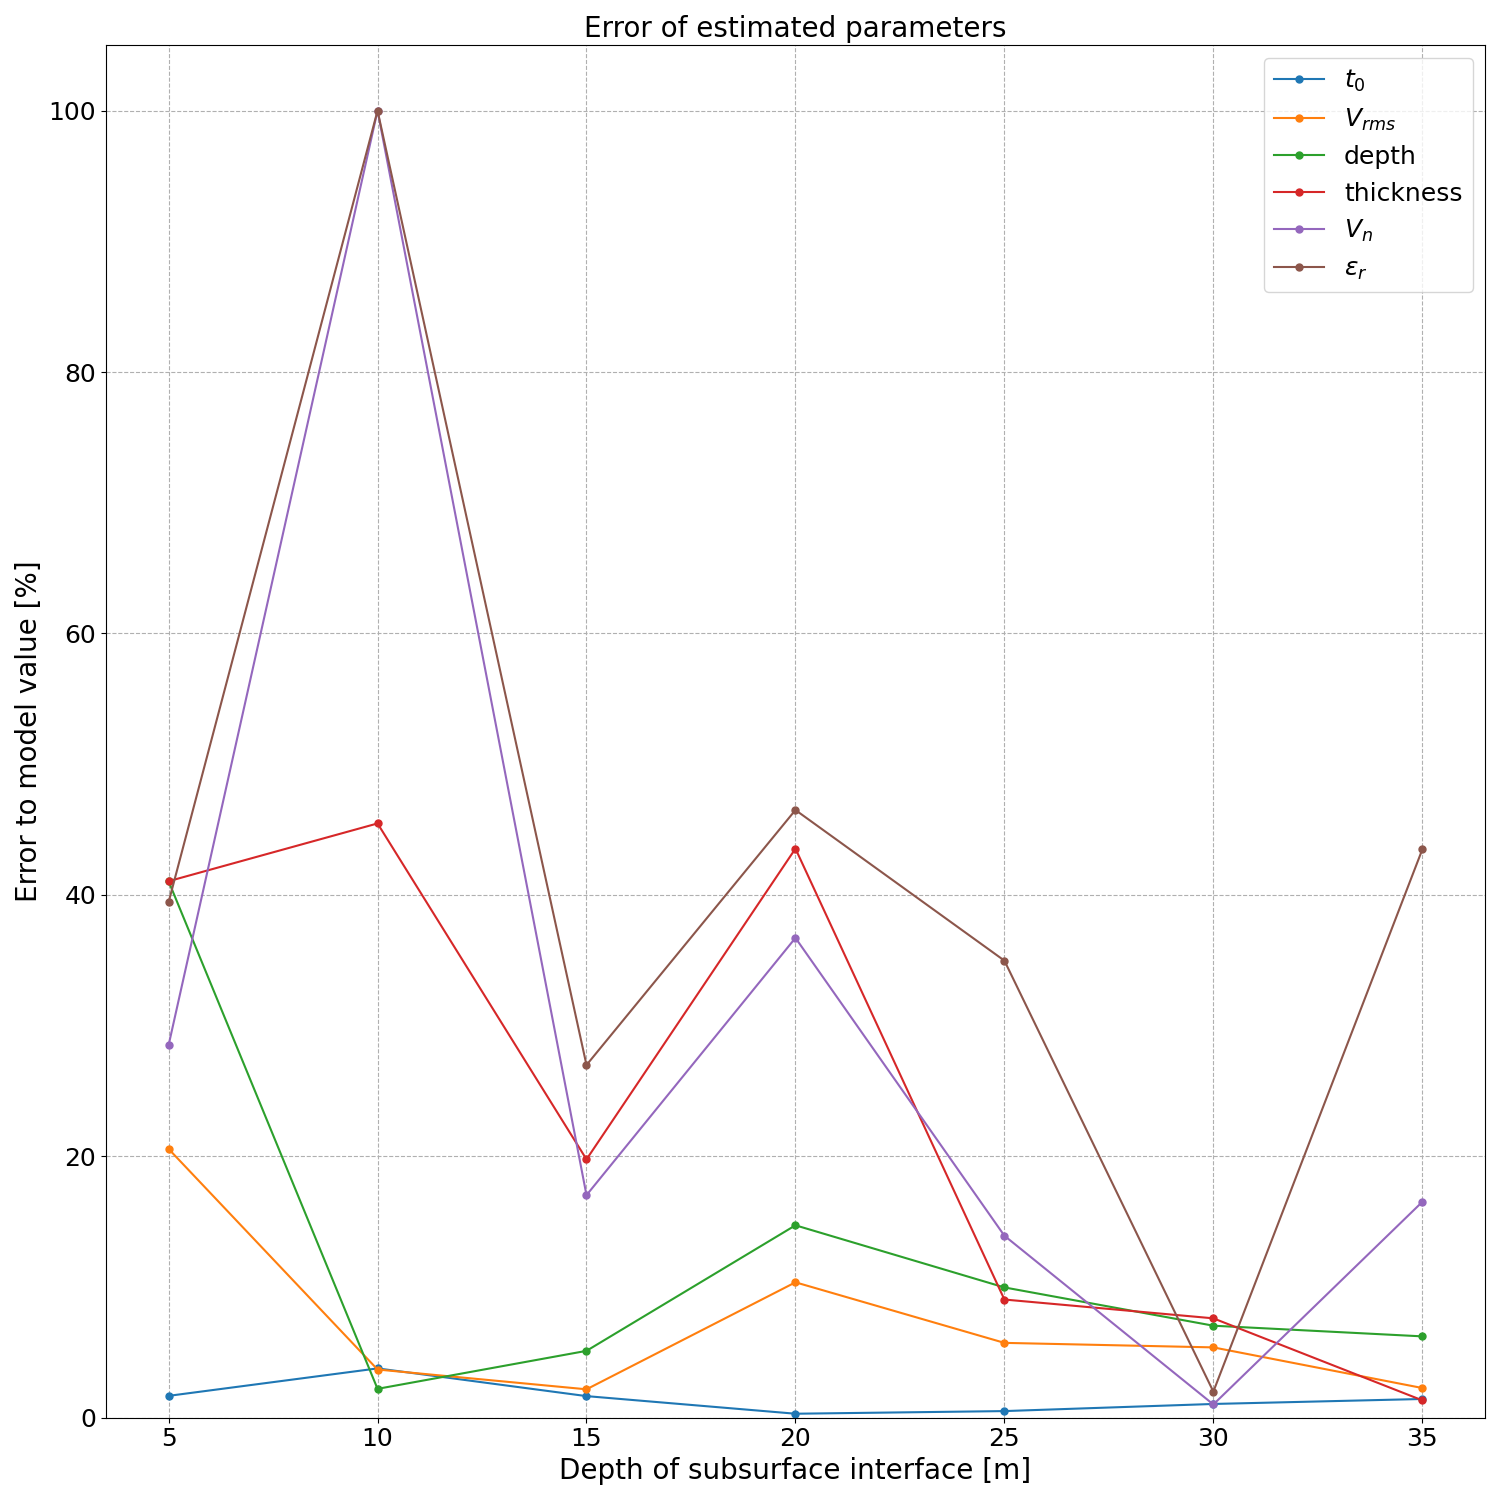
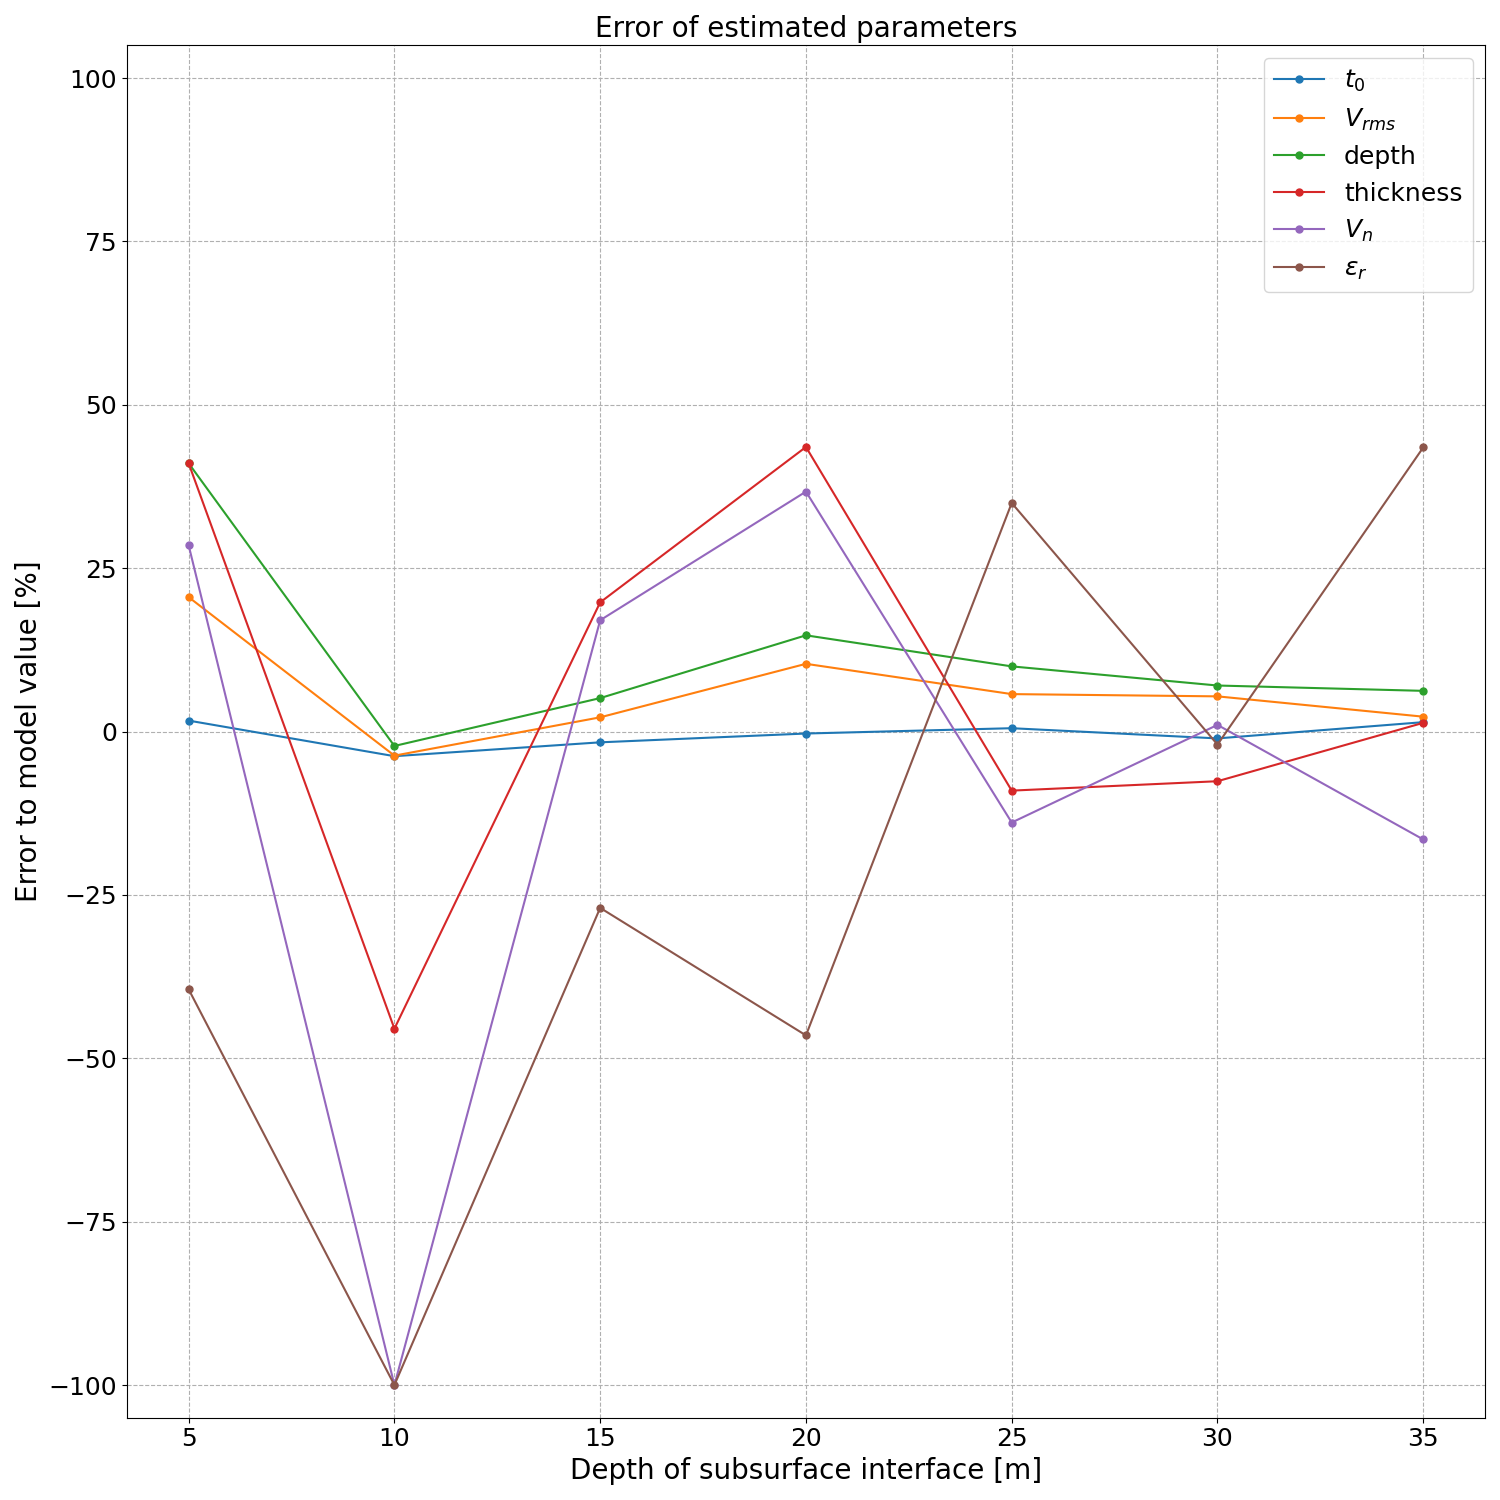
remake plot

diff --git a/tools/plot_error.py b/tools/plot_error.py
@@ -43,12 +43,12 @@ Vn_estimated = np.nan_to_num(subsurface_structure[:,1] * c) # [m/s]
 
 
 #* calculate error
-t0_error = np.abs(t0_true - t0_estimated) / t0_true * 100
-Vrms_error = np.abs(Vrms_true - Vrms_estimated) / Vrms_true * 100
-depth_error = np.abs(depth_true - depth_estimated) / depth_true * 100
-thickness_error = np.abs(thickness_true - thickness_estimated) / thickness_true * 100
-epsilon_error = np.abs(epsilon_true - epsilon_estimated) / epsilon_true * 100
-Vn_error = np.abs(Vn_true - Vn_estimated) / Vn_true * 100
+t0_error = (t0_estimated - t0_true) / t0_true * 100
+Vrms_error = (Vrms_estimated - Vrms_true) / Vrms_true * 100
+depth_error = (depth_estimated - depth_true) / depth_true * 100
+thickness_error = (thickness_estimated - thickness_true) / thickness_true * 100
+epsilon_error = (epsilon_estimated - epsilon_true) / epsilon_true * 100
+Vn_error = (Vn_estimated - Vn_true) / Vn_true * 100
 
 
 
@@ -68,7 +68,7 @@ ax.grid(which='both', axis='both', linestyle='--')
 ax.tick_params(labelsize=18)
 ax.legend(fontsize=18)
 
-ax.set_ylim(0, 105)
+ax.set_ylim(-105, 105)
 
 
 #* save and show
